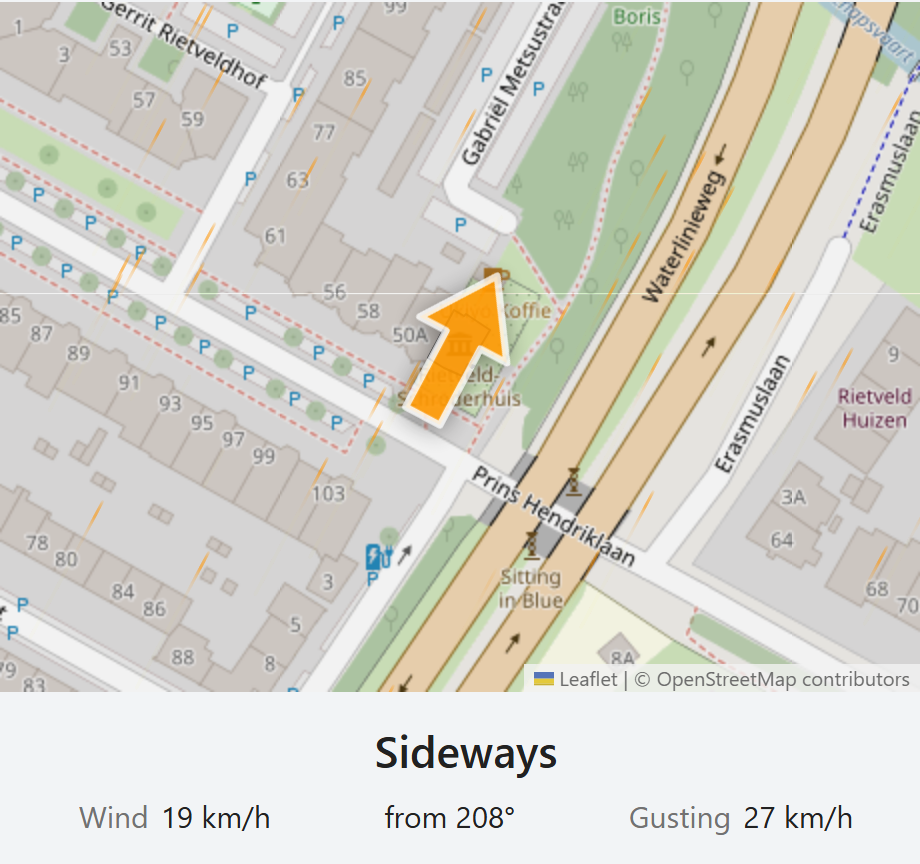
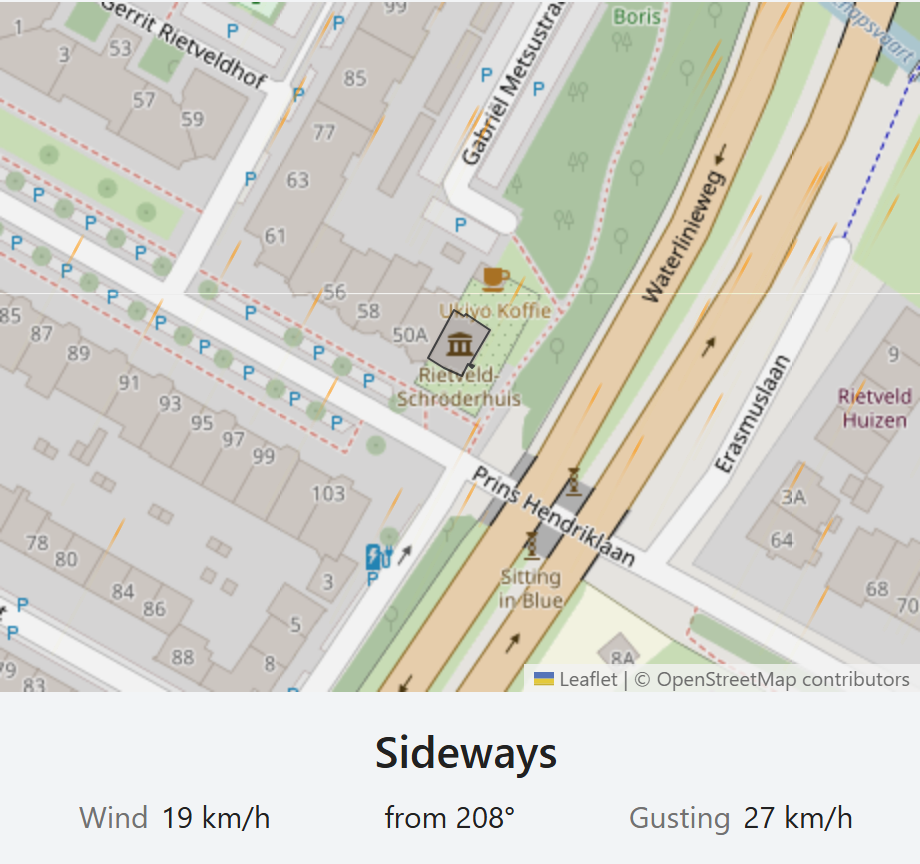
feat(dev): generate card.png and editor.png too
Both README images are now produced by `npm run screenshots` rather than taken
by hand, so neither can drift from what the card actually renders.

card.png is the hero scene written under its existing name. Renaming it would
have broken the image on every fork and in every copy of the page GitHub has
already rendered, which is a poor trade for a tidier filename. It gains the
arrow alongside the flow, since it is the one picture most people will ever
look at; the flow-only view moved to sideways.png.

editor.png comes from the editor harness, captured down to the Where panel:
address search, the map with the alignment guide over the house, the bearing
readout and Detect. The rest of the editor photographs as a stack of collapsed
headers.

That harness pointed at a cafe on Groenplaats in Antwerp, chosen at some point
as a stand-in and never revisited. It now uses the same Utrecht house as
everything else, so the two pictures agree with each other and neither shows a
building with any connection to the maintainer. The coordinates move to
dev/demo-house.ts rather than being written out twice.

The README's alt text claimed a verdict of Back to Front, which was true of
the old picture and is not of this one.

diff --git a/dev/demo.ts b/dev/demo.ts
@@ -1,39 +1,7 @@
 import '../src/airflow-map-card';
 import { mockHass } from './mock-hass';
 import type { AirflowMapCardConfig } from '../src/types';
-
-/**
- * The building every screenshot is taken of: the Rietveld Schroder House in
- * Utrecht.
- *
- * A deliberate choice, not a placeholder. It is a museum rather than anyone's
- * home, so no screenshot of it can leak an address, and it is a real house on
- * a real street, so the outline, the facade angle and the neighbours all look
- * like what a user will actually see. The footprint is the genuine OpenStreetMap
- * way, which is also what the editor's Detect button would return.
- */
-const HOUSE = {
-  latitude: 52.085327,
-  longitude: 5.147578,
-  // Outward normal of the long street-facing wall.
-  facadeBearing: 118.2,
-  footprint: [
-    [52.085307, 5.147492],
-    [52.085386, 5.147561],
-    [52.085376, 5.147589],
-    [52.085379, 5.147592],
-    [52.085375, 5.147602],
-    [52.085374, 5.147601],
-    [52.085354, 5.14766],
-    [52.085297, 5.147607],
-    [52.085295, 5.147613],
-    [52.085293, 5.147611],
-    [52.085297, 5.1476],
-    [52.085277, 5.147582],
-    [52.085294, 5.147535],
-    [52.085292, 5.147533],
-  ] as Array<[number, number]>,
-};
+import { DEMO_HOUSE } from './demo-house';
 
 interface Scene {
   id: string;
@@ -46,6 +14,8 @@ interface Scene {
   flow: boolean;
   /** Pins a basemap. Unset follows the card's own default, which is light. */
   tiles?: 'carto-dark';
+  /** Output filename, when it differs from the id. */
+  file?: string;
 }
 
 /**
@@ -63,21 +33,25 @@ const SCENES: Scene[] = [
   {
     id: 'front-to-back',
     label: 'Front to back',
-    note: 'Wind onto the front wall, flow only.',
+    note: 'The hero shot: arrow, flow and outline together.',
     bearing: 118,
     speed: 24,
     dark: false,
-    arrow: false,
+    arrow: true,
     flow: true,
+    // The README links this one, and has done since before the gallery
+    // existed. Renaming the file would break the image on every fork and in
+    // every copy of the page GitHub has already rendered.
+    file: 'card',
   },
   {
     id: 'sideways',
     label: 'Sideways',
-    note: 'Across the house, arrow and flow together.',
+    note: 'Flow on its own, with the arrow turned off.',
     bearing: 208,
     speed: 19,
     dark: false,
-    arrow: true,
+    arrow: false,
     flow: true,
   },
   {
@@ -109,13 +83,15 @@ const SCENES: Scene[] = [
 // The capture script reads the list from here rather than repeating it. Two
 // copies would drift, and the failure is a screenshot that silently stops
 // being regenerated.
-(window as unknown as { scenes?: string[] }).scenes = SCENES.map((s) => s.id);
+(window as unknown as { scenes?: Array<{ id: string; file: string }> }).scenes = SCENES.map(
+  (s) => ({ id: s.id, file: s.file ?? s.id }),
+);
 
 function config(scene: Scene): AirflowMapCardConfig {
   return {
     type: 'custom:airflow-map-card',
-    location: { latitude: HOUSE.latitude, longitude: HOUSE.longitude, zoom: 18 },
-    house: { facade_bearing: HOUSE.facadeBearing, footprint: HOUSE.footprint },
+    location: { latitude: DEMO_HOUSE.latitude, longitude: DEMO_HOUSE.longitude, zoom: DEMO_HOUSE.zoom },
+    house: { facade_bearing: DEMO_HOUSE.facadeBearing, footprint: DEMO_HOUSE.footprint },
     wind: { entity: 'weather.home' },
     arrow: { show: scene.arrow, size: ARROW_SIZE },
     flow: { show: scene.flow },

diff --git a/dev/editor.html b/dev/editor.html
@@ -32,6 +32,15 @@
         border-radius: 12px;
         padding: 16px;
       }
+      html.bare body {
+        padding: 0;
+        background: #f2f4f6;
+      }
+
+      html.bare pre {
+        display: none;
+      }
+
       pre {
         flex: 1;
         background: #1e1e1e;
@@ -48,16 +57,27 @@
   <body>
     <div class="panel"><div id="host"></div></div>
     <pre id="out"></pre>
+    <script>
+      // ?bare hides the YAML pane and the page padding, for capture.
+      if (new URLSearchParams(location.search).has('bare')) {
+        document.documentElement.classList.add('bare');
+      }
+    </script>
 
     <script type="module">
       import './ha-stubs.ts';
       import '../src/editor.ts';
+      import { DEMO_HOUSE } from './demo-house.ts';
 
       const config = {
         type: 'custom:airflow-map-card',
         title: 'Airflow',
-        location: { latitude: 51.2194, longitude: 4.4025, zoom: 18 },
-        house: { facade_bearing: 166.9 },
+        location: {
+          latitude: DEMO_HOUSE.latitude,
+          longitude: DEMO_HOUSE.longitude,
+          zoom: DEMO_HOUSE.zoom,
+        },
+        house: { facade_bearing: DEMO_HOUSE.facadeBearing, footprint: DEMO_HOUSE.footprint },
         wind: { entity: 'weather.home' },
         airflow: { mode: 'compute', weak_below: 5, sideways_from: 45 },
         arrow: { show: false, size: 130 },
@@ -72,7 +92,7 @@
 
       const editor = document.createElement('airflow-map-card-editor');
       editor.hass = {
-        config: { latitude: 51.2194, longitude: 4.4025 },
+        config: { latitude: DEMO_HOUSE.latitude, longitude: DEMO_HOUSE.longitude },
         themes: { darkMode: false },
         states: {},
         locale: { language: 'en' },

diff --git a/dev/demo-house.ts b/dev/demo-house.ts
@@ -1,0 +1,36 @@
+/**
+ * The building every harness and every screenshot uses: the Rietveld Schroder
+ * House in Utrecht.
+ *
+ * A deliberate choice, not a placeholder. It is a museum rather than anyone's
+ * home, so no screenshot of it can leak an address, and it is a real house on a
+ * real street, so the outline, the facade angle and the neighbours all look like
+ * what a user will actually see. A synthetic rectangle in an empty field would
+ * photograph as a lie.
+ *
+ * The footprint is the genuine OpenStreetMap way, which is also what the
+ * editor's Detect button returns for it.
+ */
+export const DEMO_HOUSE = {
+  latitude: 52.085327,
+  longitude: 5.147578,
+  zoom: 18,
+  /** Outward normal of the long street-facing wall, facing Prins Hendriklaan. */
+  facadeBearing: 118.2,
+  footprint: [
+    [52.085307, 5.147492],
+    [52.085386, 5.147561],
+    [52.085376, 5.147589],
+    [52.085379, 5.147592],
+    [52.085375, 5.147602],
+    [52.085374, 5.147601],
+    [52.085354, 5.14766],
+    [52.085297, 5.147607],
+    [52.085295, 5.147613],
+    [52.085293, 5.147611],
+    [52.085297, 5.1476],
+    [52.085277, 5.147582],
+    [52.085294, 5.147535],
+    [52.085292, 5.147533],
+  ] as Array<[number, number]>,
+};

diff --git a/README.md b/README.md
@@ -11,7 +11,7 @@ animates the wind blowing across it, and tells you plainly whether that air will
 back, back to front, or just wash past the front door doing nothing for you.
 
 <p align="center">
-  <img src="images/card.png" alt="The card on a dashboard: a wind arrow over a mapped house, with the verdict Back to Front underneath" width="420">
+  <img src="images/card.png" alt="The card on a dashboard: a wind arrow over a mapped house, with the verdict Front to Back underneath" width="420">
 </p>
 
 The card works out which way your house faces by reading its outline from OpenStreetMap, so
@@ -474,9 +474,13 @@ npm run screenshots sideways      # just one
 ```
 
 It starts the dev server itself, waits for every tile to finish loading and for the particles
-to lay down trails, and captures the card element at 2x for a display that deserves it. No
-cropping step, so the OpenStreetMap credit cannot be clipped, which the tile licence requires
-stays visible.
+to lay down trails, and captures at 2x for a display that deserves it. No cropping step, so
+the OpenStreetMap credit cannot be clipped, which the tile licence requires stays visible.
+
+It writes `card.png`, the two used above, plus `sideways.png`, `back-to-front.png` and
+`weak.png`. `editor.png` comes from the editor harness, which is pointed at the same house,
+and is captured down to the **Where** panel: the rest of the editor photographs as a stack of
+collapsed headers.
 
 Append `?solo=<id>` to look at one in the browser, with the ids being `front-to-back`,
 `sideways`, `back-to-front` and `weak`.
